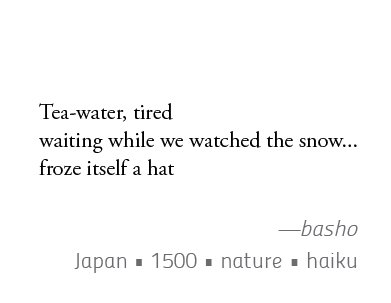
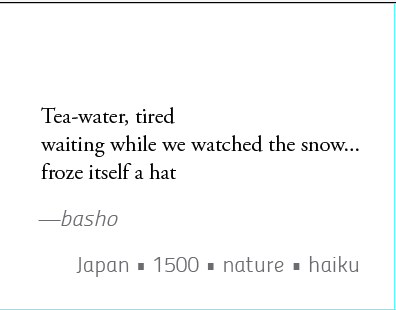
updated spec file

diff --git a/index.html b/index.html
@@ -30,12 +30,13 @@
        <div class="row clearfix">
             <div class="column one-third">
             <div class="haikucell">
-               <a href="#authors/basho" class="author">Basho</a>
                 <p class="haiku">
                 Autumn Moonlight&mdash;<br/>
                 a worm digs silently<br/>
                 into the chestnut.<br/>
                 </p>
+               <a href="#authors/basho" class="author">Basho</a>
+
             </div>
         </div>
         <div class="meta">
@@ -48,7 +49,7 @@
                 <a href="#search?query=memory+show=any">bugs</a>
         </div>
         </div>
-     
+
             </dd>
         </aside>
     </section>

diff --git a/spec.md b/spec.md
@@ -3,4 +3,43 @@
 
 ![Latest screenshot](/images/screenshot.png)
 
-Moved author to bottom to focus more on the poem.	
+CSS isn't working quite as expected, this screenshot is close to the desired outcome.
+
+/* type */
+
+.haiku {
+	font-family: 'Crimson Text', serif;
+	font-size:  1.1em;
+	font-weight: 400;
+	line-height:  1.3em;
+
+}
+
+.author {
+	font-family: 'Karla', sans-serif;
+	font-size:  .9em;
+	font-weight: 400i;
+	color: #999;
+	line-height:  1.7em;
+	text-align: right;
+            font-style: italic;
+
+}
+
+.meta {
+	font-family: 'Karla', sans-serif;
+	font-size:  .7em;
+	font-weight: 400;
+	color: #999;
+	line-height:  1.7em;
+	text-align: right;
+
+}
+
+/* cell */
+
+.haikucell {
+	width: 198px;
+	height: 153px;
+	padding: 5px;
+}
